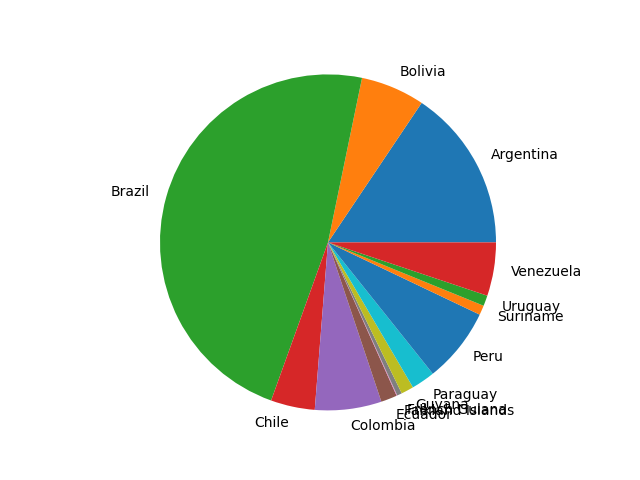
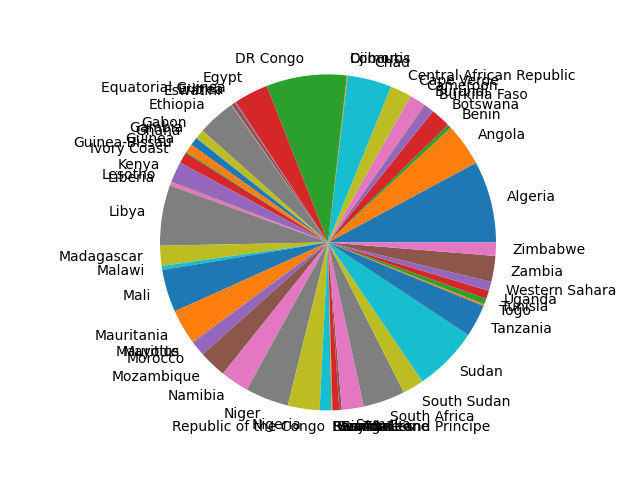
Instalamos el modulo pandas en el entorno virutual de app y creamos una nueva función en main.py en donde usamos a pandas para crear la gráfica, esto creo el archivo pais... con valores de Africa.

Changed region(s): [[0.0938, 0.0938, 0.9688, 0.9062], [0.375, 0.0938, 0.4688, 0.1562], [0.7812, 0.4062, 0.875, 0.4375]]

diff --git a/app/main.py b/app/main.py
@@ -1,9 +1,10 @@
 import charts 
 import read
+import pandas as pd
 
 
 
-def filtro(): # ------------- Filtramos todos los países de data.csv a los del continente asiatico. 
+def filtro1(): # ------------- Filtramos todos los países de data.csv a los del continente asiatico. 
    lista_origen = read.conversion("data.csv") # En lista_origen guardamos todos los valores; esto usando la función conversion del modulo read. 
    list_filtra = list(filter(lambda x: x["Continent"] == "South America", lista_origen))
    # En la linea 8 usamos lambda para filtrar unicamente los paises del continente asiatico, con la función filter los filter y con lista hacemos que sea una lista para guardarlos. 
@@ -13,7 +14,20 @@ def filtro(): # ------------- Filtramos todos los países de data.csv a los del 
    
    return pais_filtra, area_filtra #Retornamos las listas filtradas
 
-labels, values = filtro() #Guardamos las listas en cada variable. 
+#labels, values = filtro1() #Guardamos las listas en cada variable. 
+
+
+def filtro_pandas(): # ------------- Filtramos todos los países de data.csv a los del continente Africano, pero usando el modulo pandas. 
+      df = pd.read_csv("data.csv") # con la función read.csv de pandas leemos el csv. 
+
+      df = df[df["Continent"] == "Africa"] # Filtramos los paises que no son del continente africano 
+
+      pais_filtra = df["Country/Territory"].values #Con pandas filtramos por la clave país y con .values = Guardamos los Paises. 
+      area_filtra =  df["Area (km²)"].values # Con pandas filtramos el área de cada pais y con .values agregamos los valores a la lista. 
+
+      return pais_filtra, area_filtra   #Retornamos las listas. 
+
+labels, values = filtro_pandas() #Guardamos las listas en cada variable. 
 
 charts.generate_pie_chart(labels, values) #Usando el modulo charts creamos una grafica de pastel con los paises de asia y su area total. 
 
